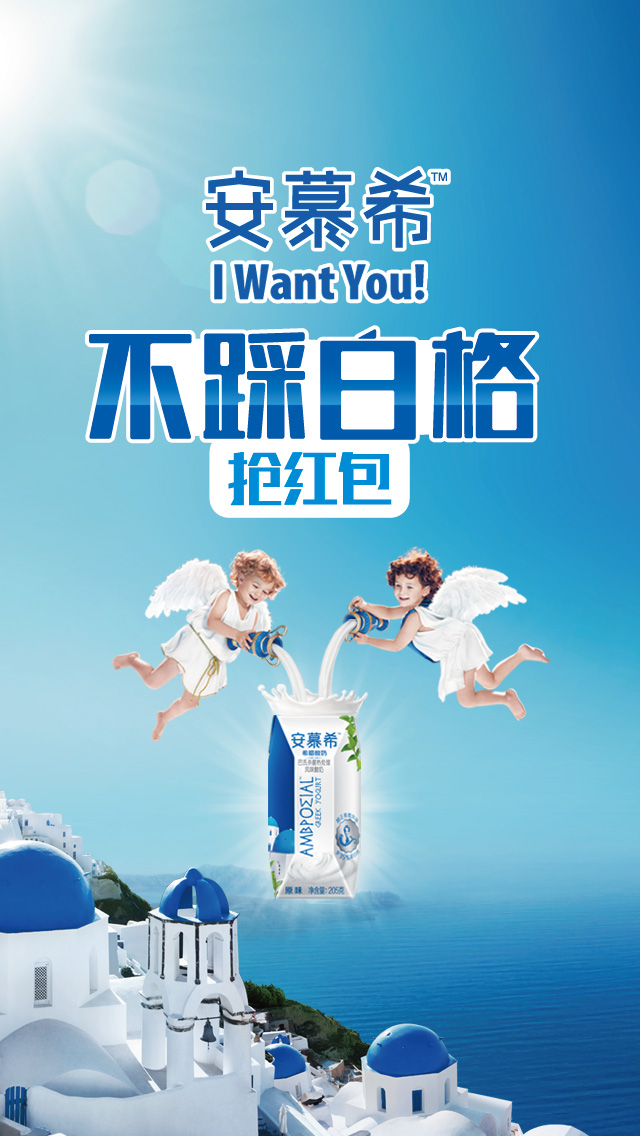
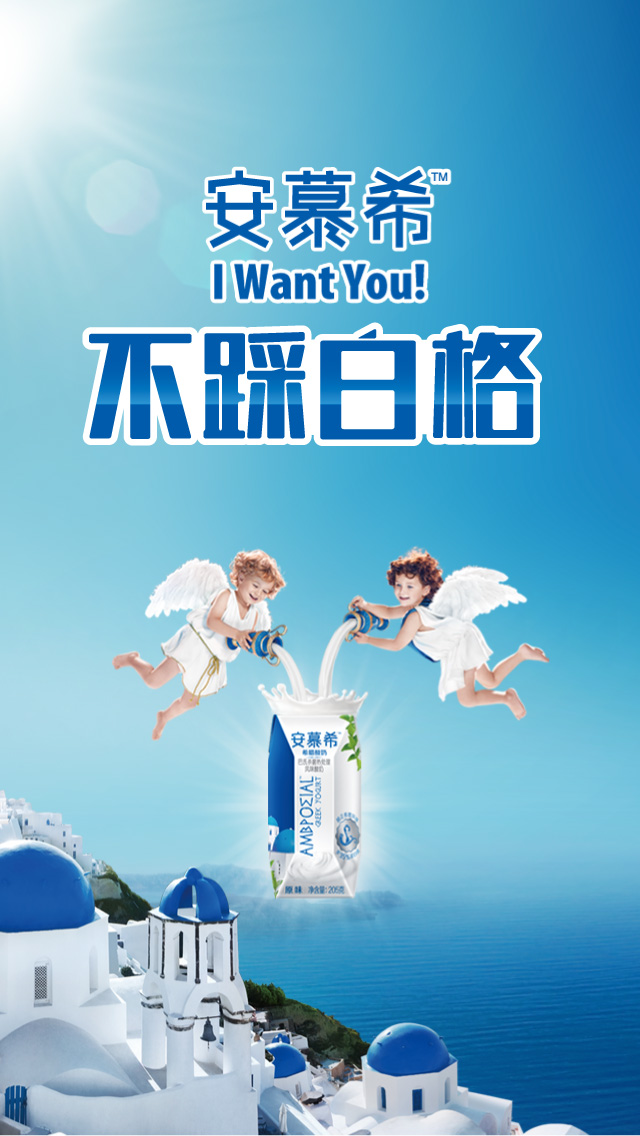
replace and rename photos

diff --git a/css/style.css b/css/style.css
@@ -46,7 +46,7 @@ body,html
 	height: 100%;	
 	z-index: 99999;
 	position: absolute;
-	background-image:url('../image/ad20148151714.jpg');
+	background-image:url('../image/ad20148181641.jpg');
 	background-size: 100% 100%; 
 	background-repeat: no-repeat;
 	
